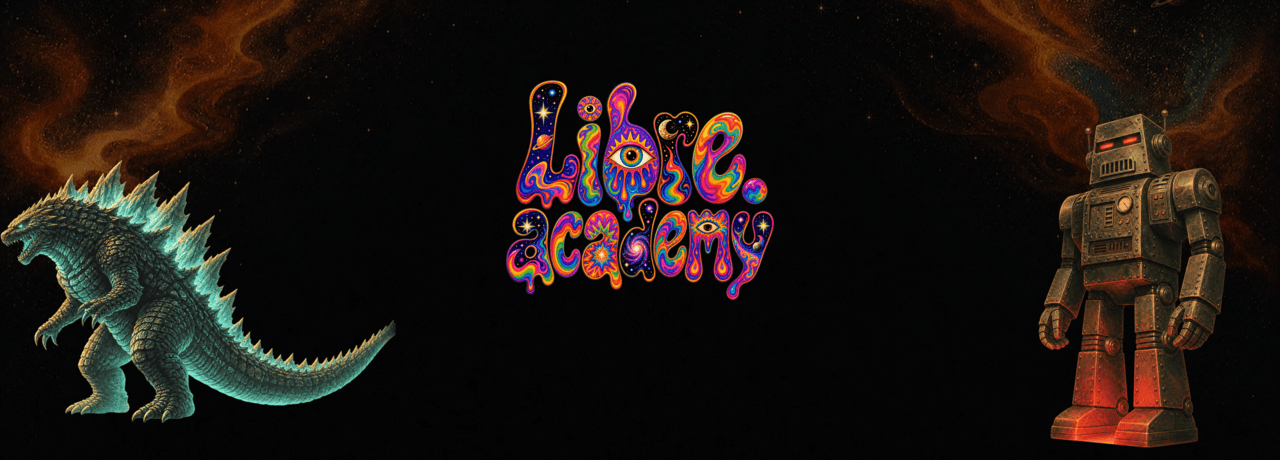
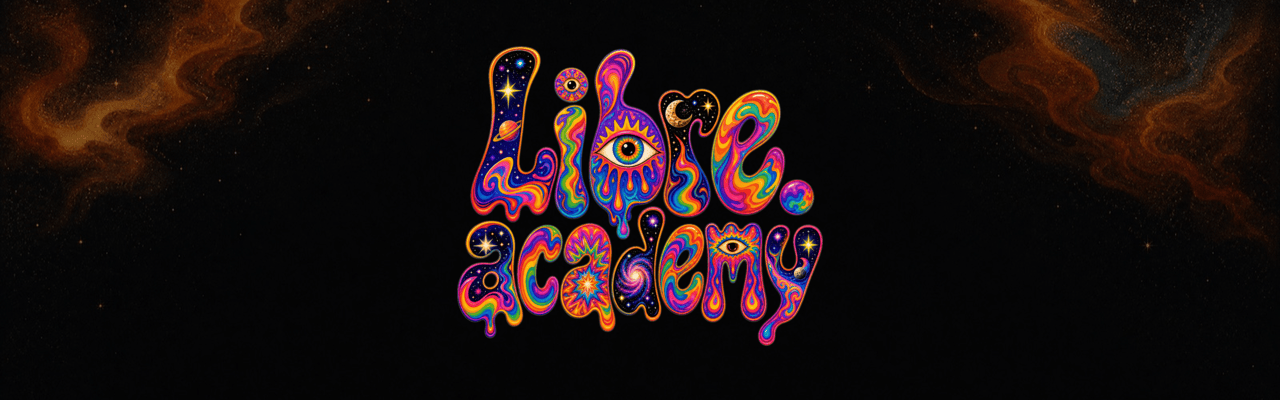
Design up the README with web-version artwork
Add a logo hero on the cosmic backdrop, an app-screenshot showcase
(library, paths, lessons), badges, and emoji section icons. Float the
kaiju and robot mascots into the body with text wrapping. Drop the dead
PLAN.md link and avoid em dashes.

diff --git a/README.md b/README.md
@@ -1,41 +1,120 @@
+<div align="center">
+
+<img src=".github/assets/hero.png" alt="Libre" width="860" />
+
 # Libre
 
-# https://libre.academy/
+**Learn to code through books and guided exercises.**
+Read a lesson, write code in a real editor, pass hidden tests. All in a
+local-first desktop app with a vintage sci-fi soul.
 
+<p align="center">
+  <a href="https://libre.academy"><img alt="libre.academy" src="https://img.shields.io/badge/web-libre.academy-e0734d?style=for-the-badge&logo=safari&logoColor=white"></a>
+  <a href="https://libre.academy/download"><img alt="Download" src="https://img.shields.io/badge/download-macOS_·_Windows-111?style=for-the-badge&logo=apple&logoColor=white"></a>
+  <img alt="License" src="https://img.shields.io/badge/license-MIT-3fb950?style=for-the-badge">
+</p>
 
-Learn to code through books and guided exercises. Mac + Windows (Tauri). Phone + Watch companions planned.
+<p align="center">
+  <img alt="Tauri" src="https://img.shields.io/badge/Tauri-2-FFC131?style=flat-square&logo=tauri&logoColor=black">
+  <img alt="React" src="https://img.shields.io/badge/React-19-61DAFB?style=flat-square&logo=react&logoColor=black">
+  <img alt="Vite" src="https://img.shields.io/badge/Vite-7-646CFF?style=flat-square&logo=vite&logoColor=white">
+  <img alt="TypeScript" src="https://img.shields.io/badge/TypeScript-5-3178C6?style=flat-square&logo=typescript&logoColor=white">
+  <img alt="Monaco" src="https://img.shields.io/badge/editor-Monaco-0078D4?style=flat-square&logo=visualstudiocode&logoColor=white">
+</p>
 
-Courses export to `.libre` archives; legacy `.kata` archives still import for backwards compatibility.
+[**🌐 libre.academy**](https://libre.academy) · [**⬇ Download**](https://libre.academy/download)
 
-See [PLAN.md](PLAN.md) for the full product plan.
+</div>
 
-## Stack
+---
 
-- **Shell**: Tauri 2
-- **Frontend**: React 19 + Vite + TypeScript
-- **UI kit**: [`@mattmattmattmatt/base`](../../Libs/base) (local file link) — monochrome glass kit
-- **Editor**: Monaco
-- **Syntax highlighting (reading)**: Shiki (via base)
-- **Languages V1**: JavaScript/TypeScript, Python, Rust, Swift
-- **Code execution**: hybrid — in-browser sandboxes first, Tauri subprocess fallback
+## 📸 Inside the app
 
-## Run
+<table>
+  <tr>
+    <td width="33%" valign="top">
+      <img src=".github/assets/shot-library.png" alt="Library" /><br>
+      <sub>📚 <b>Library</b>: courses grouped into collections</sub>
+    </td>
+    <td width="33%" valign="top">
+      <img src=".github/assets/shot-paths.png" alt="Paths" /><br>
+      <sub>🧭 <b>Paths</b>: guided routes from zero to a role</sub>
+    </td>
+    <td width="33%" valign="top">
+      <img src=".github/assets/shot-lesson.png" alt="Lesson" /><br>
+      <sub>📝 <b>Lessons</b>: prose, a real editor &amp; hidden tests</sub>
+    </td>
+  </tr>
+</table>
+
+## 🧩 What it does
+
+<img align="left" width="180" src=".github/assets/mascot-kaiju.png" alt="" />
+
+Libre turns any technical book or doc site into a guided, hands-on course. Read a
+short lesson, then write real code in a **Monaco** editor right beside it. Hit
+**Run** and hidden tests grade your work the way an interview screen does.
+Execution is hybrid: in-browser sandboxes first, with a native subprocess
+fallback when a real toolchain is needed. A local **AI tutor** reads the lesson,
+your code, and the tests, defaulting to a local Ollama model, so there are no
+API keys or usage bills.
+
+<br clear="left" />
+
+- 📖 **Books → courses**: any book or doc site becomes hands-on.
+- ✅ **Hidden-test grading**: pass-or-fail, like a real interview screen.
+- 📦 **`.libre` archives**: export and share whole courses (legacy `.kata` imports).
+- 🔒 **Local-first**: progress stays on your machine; cloud sync is opt-in.
+
+## 🖥 Desktop &amp; browser
+
+<img align="right" width="135" src=".github/assets/mascot-robot.png" alt="" />
+
+The desktop build is a **Tauri 2** shell for **macOS + Windows**: native
+runtimes, file ingest, and full offline use, with phone and watch companions
+planned. Don't want to install? The very same app runs in your browser at
+**[libre.academy/learn](https://libre.academy/learn)**. No download, same
+courses, same progress.
+
+<br clear="right" />
+
+## 🛠 Stack
+
+| | |
+|---|---|
+| 🦀 **Tauri 2** | native shell (macOS + Windows; phone + watch companions planned) |
+| ⚛ **React 19 + Vite + TypeScript** | frontend |
+| 🎚 **[`@mattmattmattmatt/base`](../../Libs/base)** | monochrome glass UI kit (local `file:` link) |
+| ⌨ **Monaco** | code editor |
+| 🎨 **Shiki** | syntax highlighting for reading (via base) |
+| 🧪 **Vitest** | tests |
+
+**Languages (V1):** JavaScript/TypeScript · Python · Rust · Swift.
+
+## 🚀 Run
 
 ```bash
 npm install
-npm run tauri:dev     # full app
+npm run tauri:dev     # full app (native shell)
 npm run dev           # frontend only (no Tauri shell)
 npm run test          # vitest
 ```
 
-## Layout
+## 🗂 Layout
 
 ```
 libre/
-├── src/                    # React frontend
-│   ├── components/         # Sidebar, TabBar, Lesson, Editor, Output
-│   ├── data/               # types + seed courses
+├── src/                 # React frontend
+│   ├── components/      # Sidebar · TabBar · Lesson · Editor · Output
+│   ├── data/            # types + seed courses
 │   └── App.tsx
-├── src-tauri/              # Rust Tauri backend
-└── PLAN.md                 # product plan
+├── src-tauri/           # Rust Tauri backend
+└── .github/assets/      # README artwork (shared with the web version)
 ```
+
+## 📄 License
+
+**MIT.** The desktop app, the [marketing site](https://libre.academy), and the
+cloud-sync server are all open source.
+
+<div align="center"><sub>Made with caffeine, monsters, and robots. 🦖🤖</sub></div>
